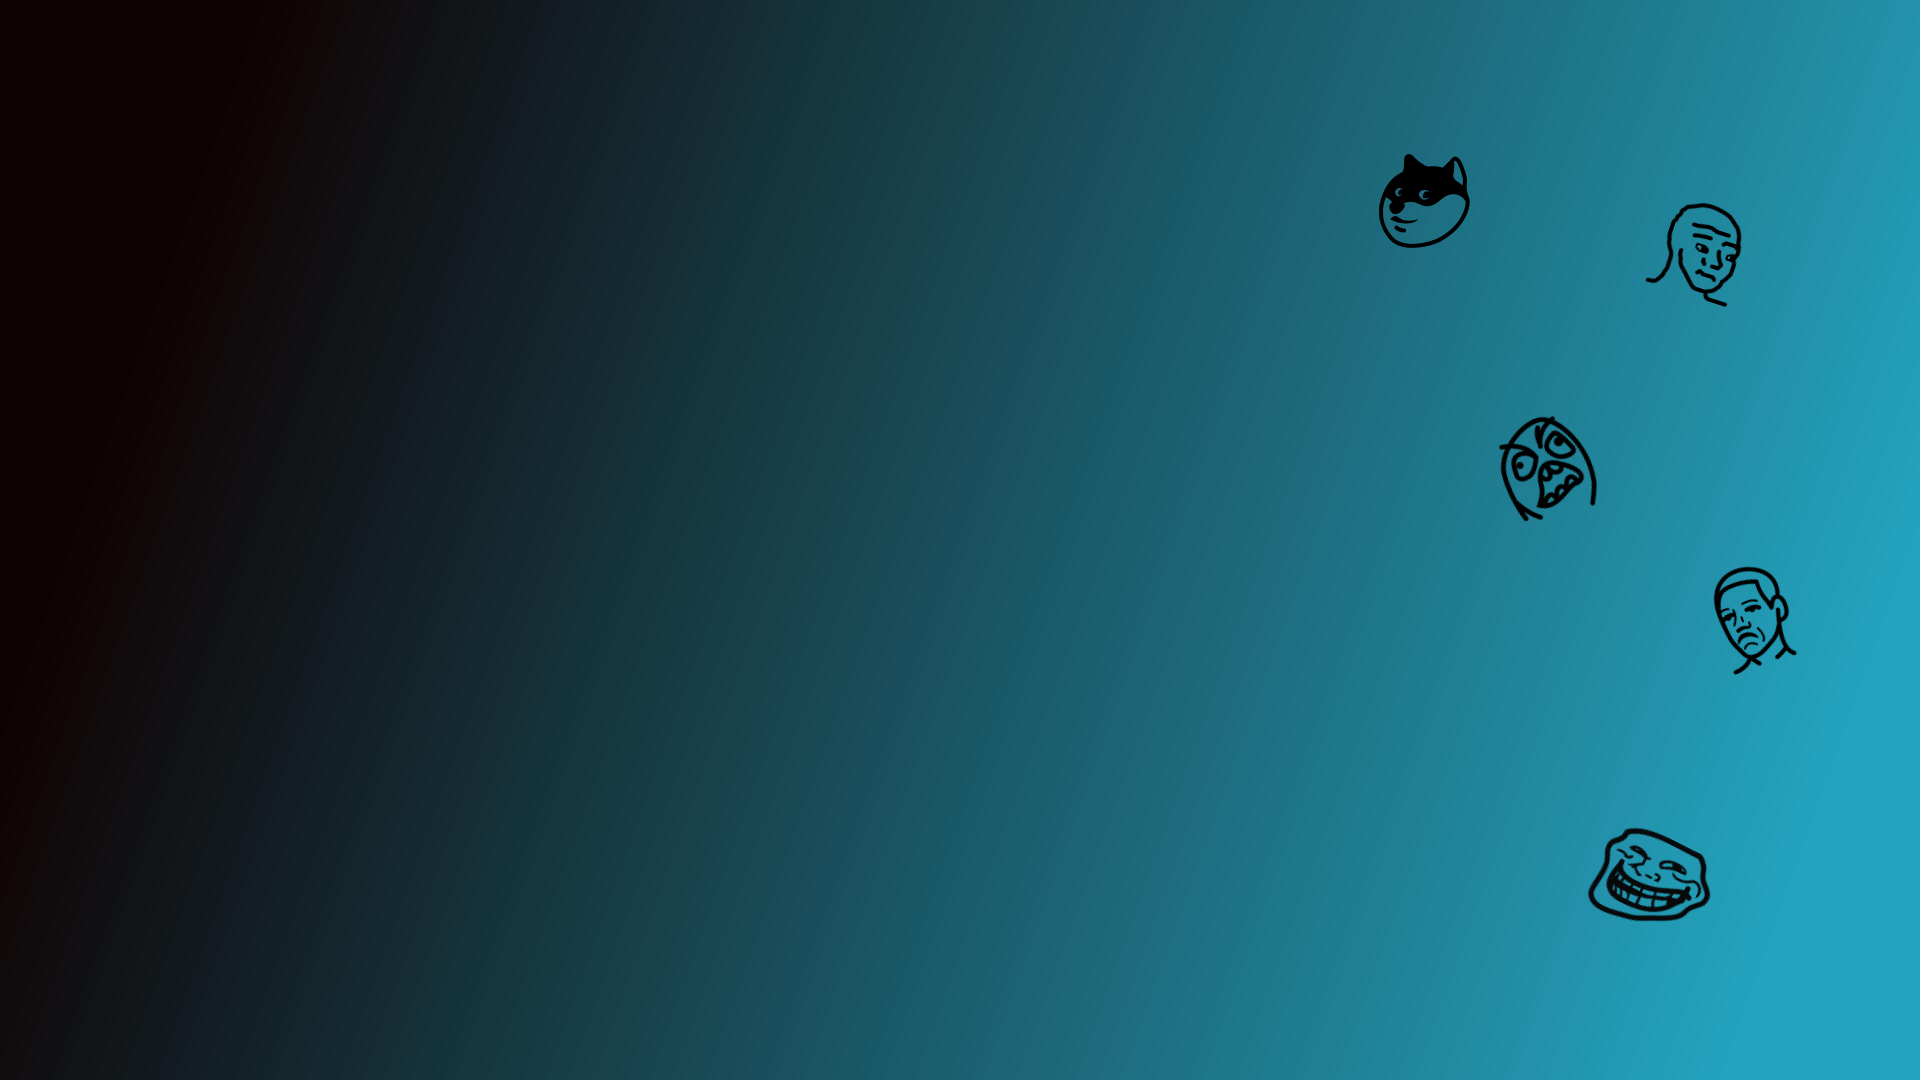
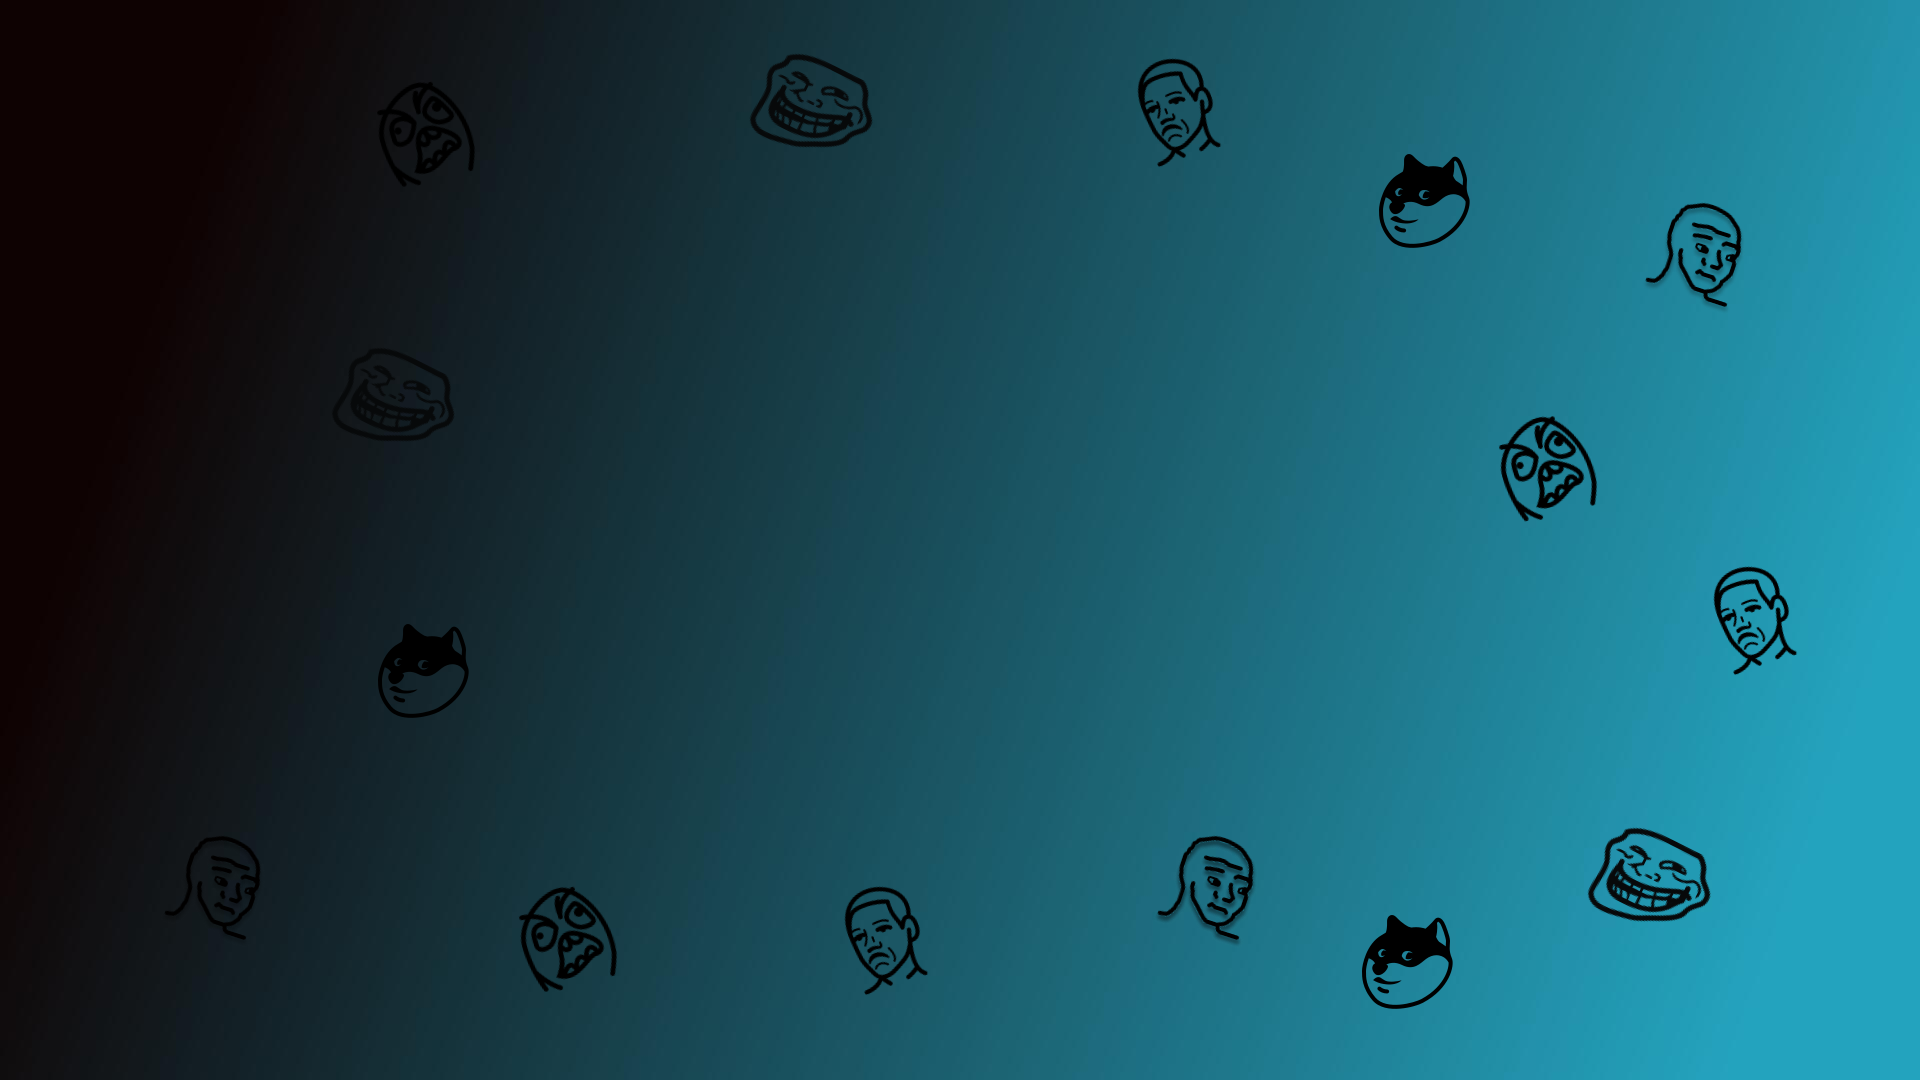
fix: change background image & edit px to rem (Fri, May 13, 2022 05:07:01 PM)

diff --git a/cssMemSlider/style.css b/cssMemSlider/style.css
@@ -19,7 +19,7 @@ img {
 	display: block;
 	width: 100%;
 	height: 100%;
-	border-radius: 10px;
+	border-radius: 0.625rem;
 	object-fit: fill;
 }
 h1,
@@ -46,7 +46,9 @@ body {
 .slider {
 	width: 50rem;
   height: 35rem;
-  padding: 20px 30px;
+  padding: 1.25rem 1.85rem;
+	background-color: #00000029;
+	border-radius: 1rem;
 }
 
 .slider__container {
@@ -96,8 +98,7 @@ input {
 
 .slider__slider-handle > label {
   cursor: pointer;
-  margin-right: 7px;
-  padding: 10px
+  padding: 0.7rem
 }
 
 .slider__slider-handle > label:last-child {
@@ -119,10 +120,10 @@ input {
 }
 
 .bullet {
-	height: 15px;
-	width: 15px;
+	height: 1rem;
+	width: 1rem;
 	border-radius: 50%;
-  border: 2px solid #ffffff8a;
+  border: 0.125rem solid #ffffff8a;
 }
 
 #r1:checked ~ .slider__images .s1 {
@@ -158,19 +159,19 @@ label:hover > div {
 
 #r1:checked ~ .slider__slider-handle .b1 {
   background-color: #fff;
-  box-shadow: 0px 0px 6px 4px rgba(34, 60, 80, 1);
+  box-shadow: 0 0 0.375rem 0.25rem rgb(255 255 255 / 47%);
 }
 #r2:checked ~ .slider__slider-handle .b2 {
   background-color: #fff;
-  box-shadow: 0px 0px 6px 4px rgba(34, 60, 80, 1);
+  box-shadow: 0 0 0.375rem 0.25rem rgb(255 255 255 / 47%);
 }
 #r3:checked ~ .slider__slider-handle .b3 {
   background-color: #fff;
-  box-shadow: 0px 0px 6px 4px rgba(34, 60, 80, 1);
+  box-shadow: 0 0 0.375rem 0.25rem rgb(255 255 255 / 47%);
 }
 #r4:checked ~ .slider__slider-handle .b4 {
   background-color: #fff;
-  box-shadow: 0px 0px 6px 4px rgba(34, 60, 80, 1);
+  box-shadow: 0 0 0.375rem 0.25rem rgb(255 255 255 / 47%);
 }
 
 #r1:active ~ .slider__slider-handle .b1 {
